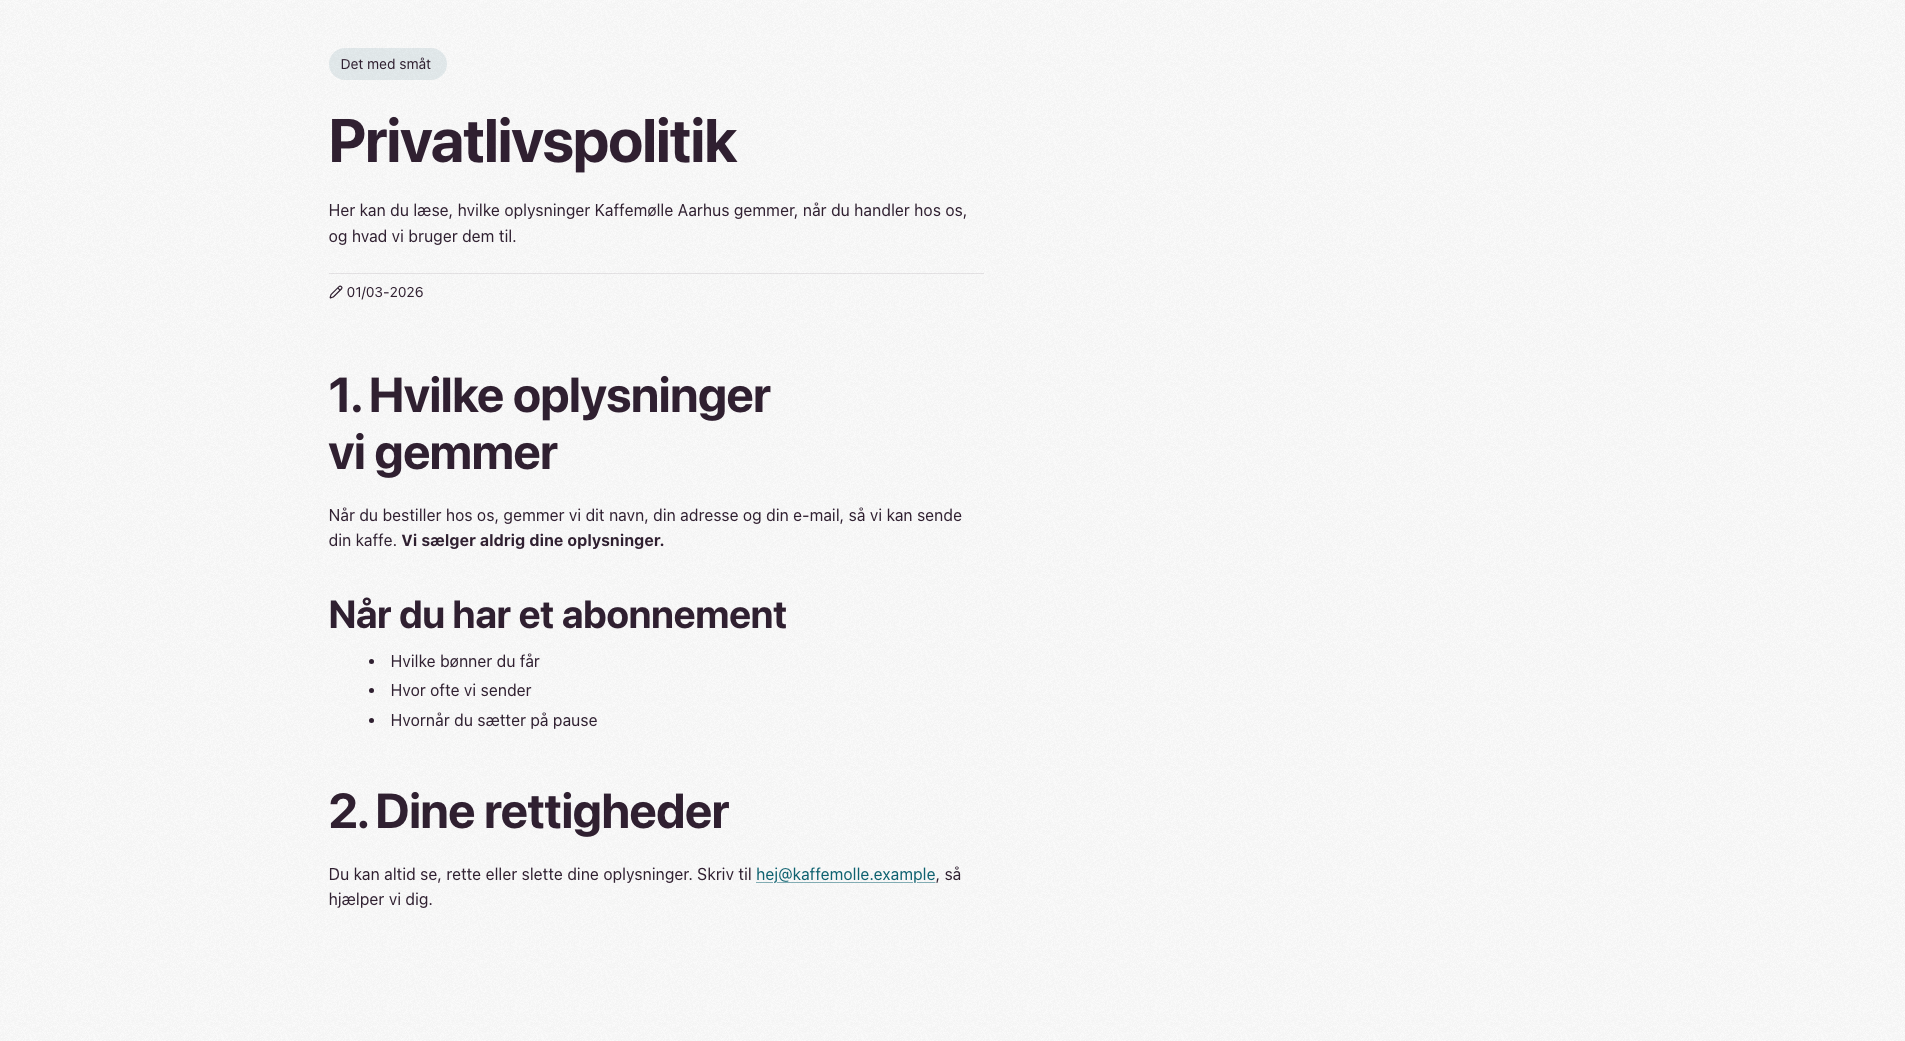
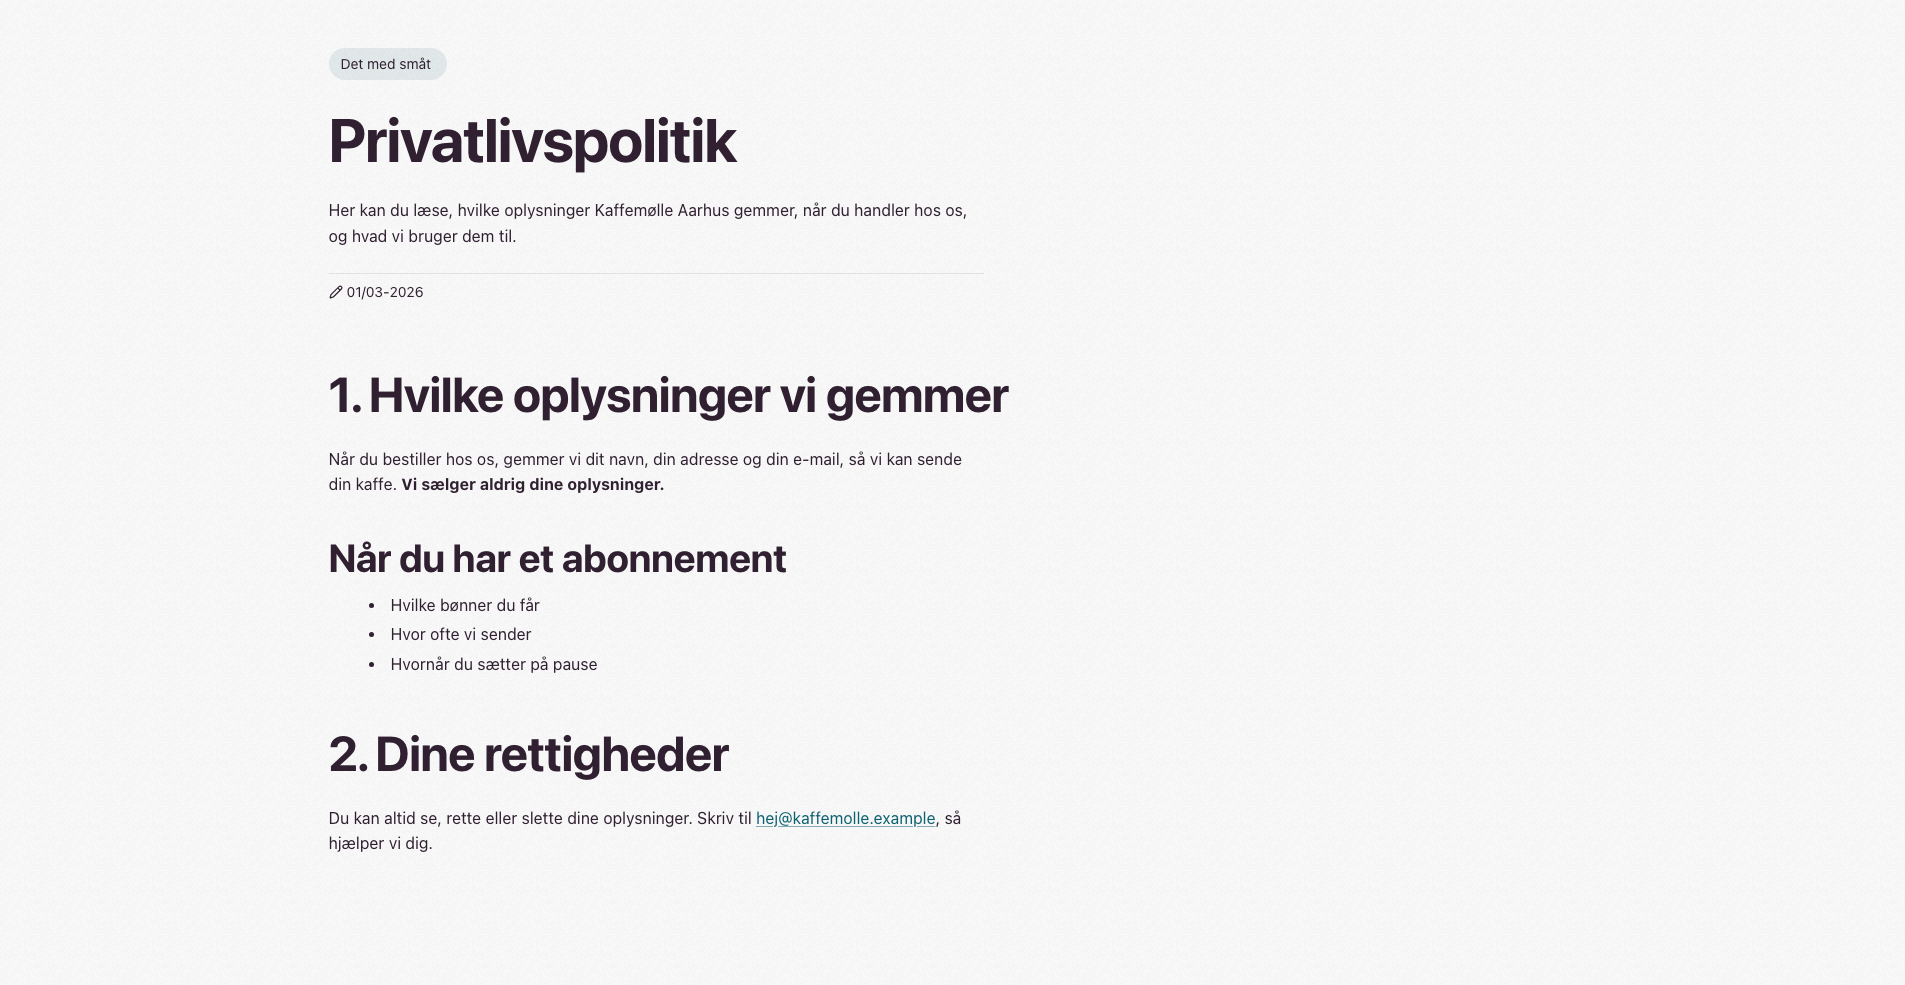
text_content document: headings in the text use the full width
The reading width (max-w-prose) sat on the whole text block, so long h2s wrapped onto two lines in the narrow column. It now applies to paragraphs and lists only; headings in the text can use the full width. The user decided this after seeing the legal pages. check-responsive passes.

diff --git a/src/components/text-content/parts/TextContentDocumentLayout.tsx b/src/components/text-content/parts/TextContentDocumentLayout.tsx
@@ -22,11 +22,11 @@ export type TextContentDocumentLayoutProps = {
 };
 
 /**
- * TextContent "document": ét langt dokument i læsbar bredde, fx en
- * privatlivspolitik eller vilkår. Mærkat, overskrift, intro og sidens sidste
- * publicering øverst; teksten er sin egen række, så sektionens rytme adskiller
- * den fra introen. Teksten har egne overskrifter og lister og får ikke isHero
- * (dens h2'er skal blive h2'er). Domain-part (Tailwind tilladt, R3.3).
+ * TextContent "document": ét langt dokument, fx en privatlivspolitik eller
+ * vilkår. Mærkat, overskrift, intro og sidens sidste publicering øverst;
+ * teksten er sin egen række, så sektionens rytme adskiller den fra introen.
+ * Teksten har egne overskrifter og lister og får ikke isHero (dens h2'er skal
+ * blive h2'er). Domain-part (Tailwind tilladt, R3.3).
  */
 export function TextContentDocumentLayout({
   slice,
@@ -75,10 +75,11 @@ export function TextContentDocumentLayout({
       </EviRow>
       {isFilled.richText(p.content) && (
         <EviRow>
+          {/* Læsebredden kun på brødteksten: overskrifterne må bruge hele bredden. */}
           <EviRichText
             field={p.content}
             linkResolver={linkResolver}
-            className="max-w-prose"
+            className="[&>ol]:max-w-prose [&>p]:max-w-prose [&>ul]:max-w-prose"
           />
         </EviRow>
       )}
